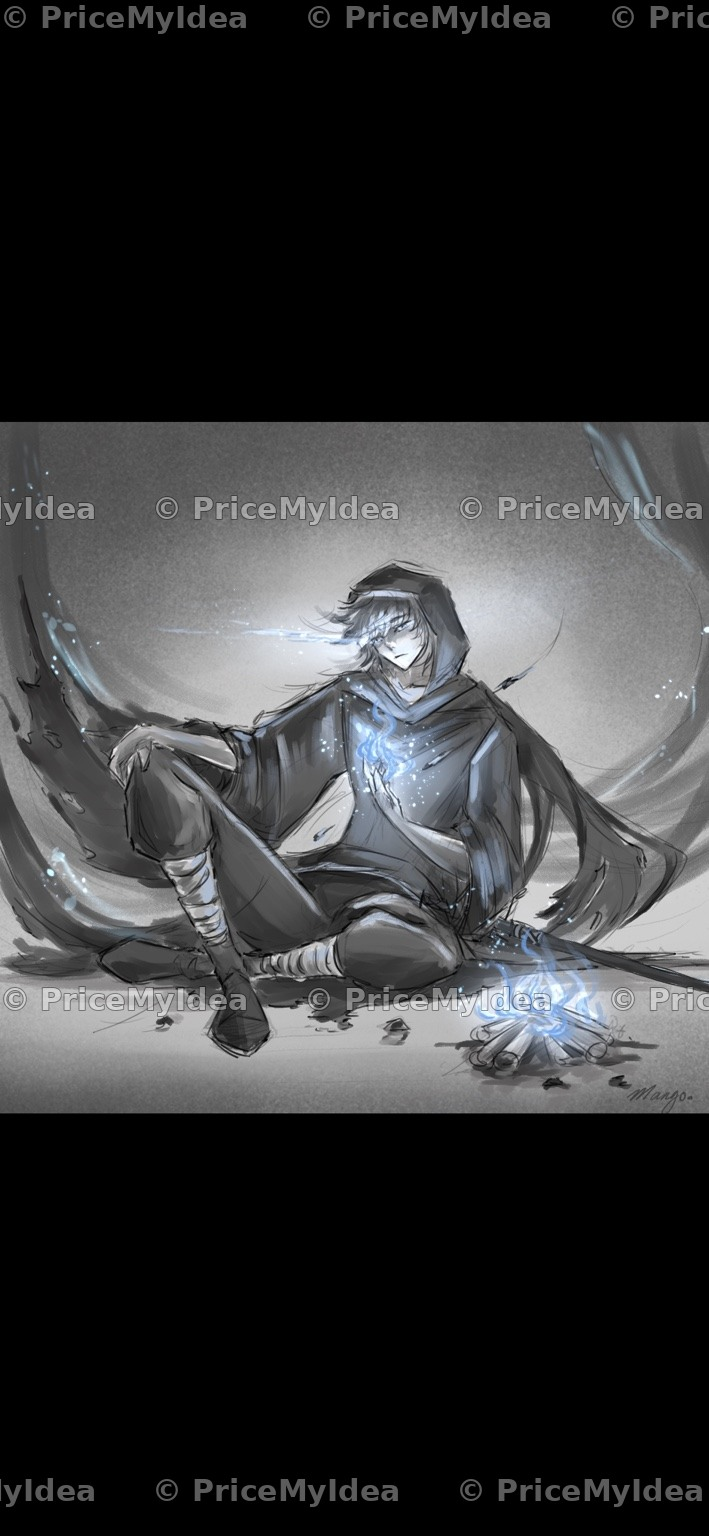
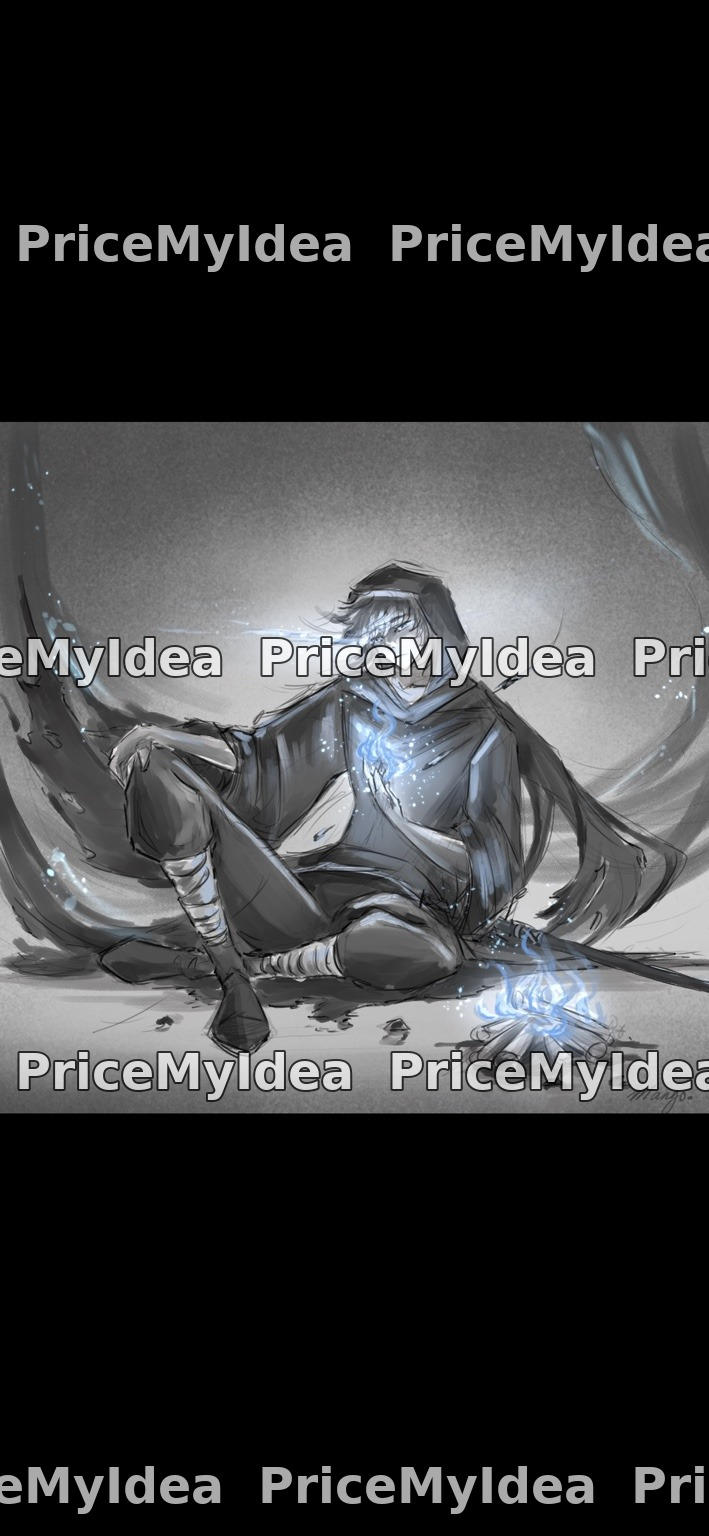
watermarks added to artwork

diff --git a/index.html b/index.html
@@ -98,34 +98,34 @@
  <div class="section-header"><h2>Popular Project Types</h2><a class="muted-link" href="pages/pricing-guides.html">View All →</a></div>
  <div class="project-grid">
  <article class="project-card animation-card blank-card">
- <div class="thumb" style="background-image:url('assets/2d-animation-character-rig.jpg?v=watermark-v15'); background-position:center 34%; background-size:cover;"></div>
+ <div class="thumb" style="background-image:url('assets/2d-animation-character-rig.jpg?v=watermark-v16'); background-position:center 34%; background-size:cover;"></div>
  <div class="body"><div><h3>2D Animation</h3><p>$1,200 to $3,800</p></div><div class="arrow">→</div></div>
  </article>
  <article class="project-card illustration-card">
- <div class="thumb" style="background-image:url('assets/illustration-cover-cropped.jpg?v=watermark-v15');"></div>
+ <div class="thumb" style="background-image:url('assets/illustration-cover-cropped.jpg?v=watermark-v16');"></div>
  <div class="body"><div><h3>Illustration</h3><p>$80 to $600</p></div><div class="arrow">→</div></div>
  </article>
  <article class="project-card comic-card">
- <div class="thumb" style="background-image:url('assets/comic-manga-cover.jpg?v=watermark-v15'); background-position:center 42%;"></div>
+ <div class="thumb" style="background-image:url('assets/comic-manga-cover.jpg?v=watermark-v16'); background-position:center 42%;"></div>
  <div class="body"><div><h3>Comic / Manga</h3><p>$300 to $1,500</p></div><div class="arrow">→</div></div>
  </article>
  <article class="project-card video-card">
- <div class="thumb" style="background-image:url('assets/video-editing-cover.jpg?v=watermark-v15'); background-position:center center;"></div>
+ <div class="thumb" style="background-image:url('assets/video-editing-cover.jpg?v=watermark-v16'); background-position:center center;"></div>
  <div class="body"><div><h3>Video Editing</h3><p>$200 to $1,200</p></div><div class="arrow">→</div></div>
  </article>
  <article class="project-card graphic-card">
- <div class="thumb" style="background-image:url('assets/graphic-design-cover.jpg?v=watermark-v15'); background-position:center 38%;"></div>
+ <div class="thumb" style="background-image:url('assets/graphic-design-cover.jpg?v=watermark-v16'); background-position:center 38%;"></div>
  <div class="body"><div><h3>Graphic Design</h3><p>$150 to $800</p></div><div class="arrow">→</div></div>
  </article>
  <article class="project-card music-card">
- <div class="thumb" style="background-image:url('assets/music-cover.jpg?v=watermark-v15'); background-position:center center;"></div>
+ <div class="thumb" style="background-image:url('assets/music-cover.jpg?v=watermark-v16'); background-position:center center;"></div>
  <div class="body"><div><h3>Music</h3><p>$100 to $800</p></div><div class="arrow">→</div></div>
  </article>
  </div>
  </section>
 
  <section class="cta-row">
- <article class="card cta-card image" style="background-image:url('assets/frontpage-bg-cropped.jpg?v=watermark-v15'); background-position:center 18%;">
+ <article class="card cta-card image" style="background-image:url('assets/frontpage-bg-cropped.jpg?v=watermark-v16'); background-position:center 18%;">
  <h3>Hiring a freelancer?</h3>
  <p>Get a realistic price range, see detailed breakdowns, and find the right talent for your project.</p>
  <a class="btn btn-primary" href="pages/calculator.html">Calculate My Project →</a>

diff --git a/pricemyproject-preview.html b/pricemyproject-preview.html
@@ -98,34 +98,34 @@
  <div class="section-header"><h2>Popular Project Types</h2><a class="muted-link" href="pages/pricing-guides.html">View All →</a></div>
  <div class="project-grid">
  <article class="project-card animation-card blank-card">
- <div class="thumb" style="background-image:url('assets/2d-animation-character-rig.jpg?v=watermark-v15'); background-position:center 34%; background-size:cover;"></div>
+ <div class="thumb" style="background-image:url('assets/2d-animation-character-rig.jpg?v=watermark-v16'); background-position:center 34%; background-size:cover;"></div>
  <div class="body"><div><h3>2D Animation</h3><p>$1,200 to $3,800</p></div><div class="arrow">→</div></div>
  </article>
  <article class="project-card illustration-card">
- <div class="thumb" style="background-image:url('assets/illustration-cover-cropped.jpg?v=watermark-v15');"></div>
+ <div class="thumb" style="background-image:url('assets/illustration-cover-cropped.jpg?v=watermark-v16');"></div>
  <div class="body"><div><h3>Illustration</h3><p>$80 to $600</p></div><div class="arrow">→</div></div>
  </article>
  <article class="project-card comic-card">
- <div class="thumb" style="background-image:url('assets/comic-manga-cover.jpg?v=watermark-v15'); background-position:center 42%;"></div>
+ <div class="thumb" style="background-image:url('assets/comic-manga-cover.jpg?v=watermark-v16'); background-position:center 42%;"></div>
  <div class="body"><div><h3>Comic / Manga</h3><p>$300 to $1,500</p></div><div class="arrow">→</div></div>
  </article>
  <article class="project-card video-card">
- <div class="thumb" style="background-image:url('assets/video-editing-cover.jpg?v=watermark-v15'); background-position:center center;"></div>
+ <div class="thumb" style="background-image:url('assets/video-editing-cover.jpg?v=watermark-v16'); background-position:center center;"></div>
  <div class="body"><div><h3>Video Editing</h3><p>$200 to $1,200</p></div><div class="arrow">→</div></div>
  </article>
  <article class="project-card graphic-card">
- <div class="thumb" style="background-image:url('assets/graphic-design-cover.jpg?v=watermark-v15'); background-position:center 38%;"></div>
+ <div class="thumb" style="background-image:url('assets/graphic-design-cover.jpg?v=watermark-v16'); background-position:center 38%;"></div>
  <div class="body"><div><h3>Graphic Design</h3><p>$150 to $800</p></div><div class="arrow">→</div></div>
  </article>
  <article class="project-card music-card">
- <div class="thumb" style="background-image:url('assets/music-cover.jpg?v=watermark-v15'); background-position:center center;"></div>
+ <div class="thumb" style="background-image:url('assets/music-cover.jpg?v=watermark-v16'); background-position:center center;"></div>
  <div class="body"><div><h3>Music</h3><p>$100 to $800</p></div><div class="arrow">→</div></div>
  </article>
  </div>
  </section>
 
  <section class="cta-row">
- <article class="card cta-card image" style="background-image:url('assets/frontpage-bg-cropped.jpg?v=watermark-v15'); background-position:center 18%;">
+ <article class="card cta-card image" style="background-image:url('assets/frontpage-bg-cropped.jpg?v=watermark-v16'); background-position:center 18%;">
  <h3>Hiring a freelancer?</h3>
  <p>Get a realistic price range, see detailed breakdowns, and find the right talent for your project.</p>
  <a class="btn btn-primary" href="pages/calculator.html">Calculate My Project →</a>

diff --git a/pages/pricing-guides.html b/pages/pricing-guides.html
@@ -22,7 +22,7 @@
  </div>
  </div>
 </header>
-<main class="container content-page"><section class="card page-hero"><div class="eyebrow">Pricing Guides</div><h1>Creative Pricing Guides</h1><p>In-depth breakdowns for creative projects. This starter build includes example cards and can be expanded into SEO-driven guide pages later.</p></section><section class="guide-grid"><article class="card guide-card"><div class="thumb" style="background-image:url('../assets/beach-animation-cover.jpg?v=watermark-v15'); background-position:center center"></div><h3>2D Animation Cost</h3><p>How much does 2D animation cost per minute? Learn what changes the range.</p><a class="muted-link" href="calculator.html">Get estimate →</a></article><article class="card guide-card"><div class="thumb" style="background-image:url('../assets/illustration-cover-cropped.jpg?v=watermark-v15'); background-position:center 34%"></div><h3>Illustration Cost</h3><p>The user-provided illustration cover is used here as a sample project-type visual.</p><a class="muted-link" href="calculator.html?category=illustration">Get estimate →</a></article><article class="card guide-card"><div class="thumb" style="background-image:url('../assets/frontpage-bg-cropped.jpg?v=watermark-v15'); background-position:center 26%"></div><h3>Comic / Manga Cost</h3><p>Page rates, covers, line art, and coloring costs for indie comic work.</p><a class="muted-link" href="calculator.html?category=comic">Get estimate →</a></article></section></main>
+<main class="container content-page"><section class="card page-hero"><div class="eyebrow">Pricing Guides</div><h1>Creative Pricing Guides</h1><p>In-depth breakdowns for creative projects. This starter build includes example cards and can be expanded into SEO-driven guide pages later.</p></section><section class="guide-grid"><article class="card guide-card"><div class="thumb" style="background-image:url('../assets/beach-animation-cover.jpg?v=watermark-v16'); background-position:center center"></div><h3>2D Animation Cost</h3><p>How much does 2D animation cost per minute? Learn what changes the range.</p><a class="muted-link" href="calculator.html">Get estimate →</a></article><article class="card guide-card"><div class="thumb" style="background-image:url('../assets/illustration-cover-cropped.jpg?v=watermark-v16'); background-position:center 34%"></div><h3>Illustration Cost</h3><p>The user-provided illustration cover is used here as a sample project-type visual.</p><a class="muted-link" href="calculator.html?category=illustration">Get estimate →</a></article><article class="card guide-card"><div class="thumb" style="background-image:url('../assets/frontpage-bg-cropped.jpg?v=watermark-v16'); background-position:center 26%"></div><h3>Comic / Manga Cost</h3><p>Page rates, covers, line art, and coloring costs for indie comic work.</p><a class="muted-link" href="calculator.html?category=comic">Get estimate →</a></article></section></main>
 <footer class="footer">
  <div class="container">
  <div>© 2026 <strong>PriceMyIdea</strong>. Creative pricing shouldn’t be a mystery.</div>

diff --git a/styles.css b/styles.css
@@ -76,7 +76,7 @@ img { max-width: 100%; display: block; }
  position: absolute; inset: 0;
  background:
  linear-gradient(90deg, rgba(6,16,31,.95) 0%, rgba(6,16,31,.82) 42%, rgba(6,16,31,.56) 68%, rgba(6,16,31,.84) 100%),
- url('assets/frontpage-bg-cropped.jpg?v=watermark-v15') center center / cover no-repeat;
+ url('assets/frontpage-bg-cropped.jpg?v=watermark-v16') center center / cover no-repeat;
  filter: saturate(1.05);
 }
 .hero .container { position: relative; z-index: 1; }
